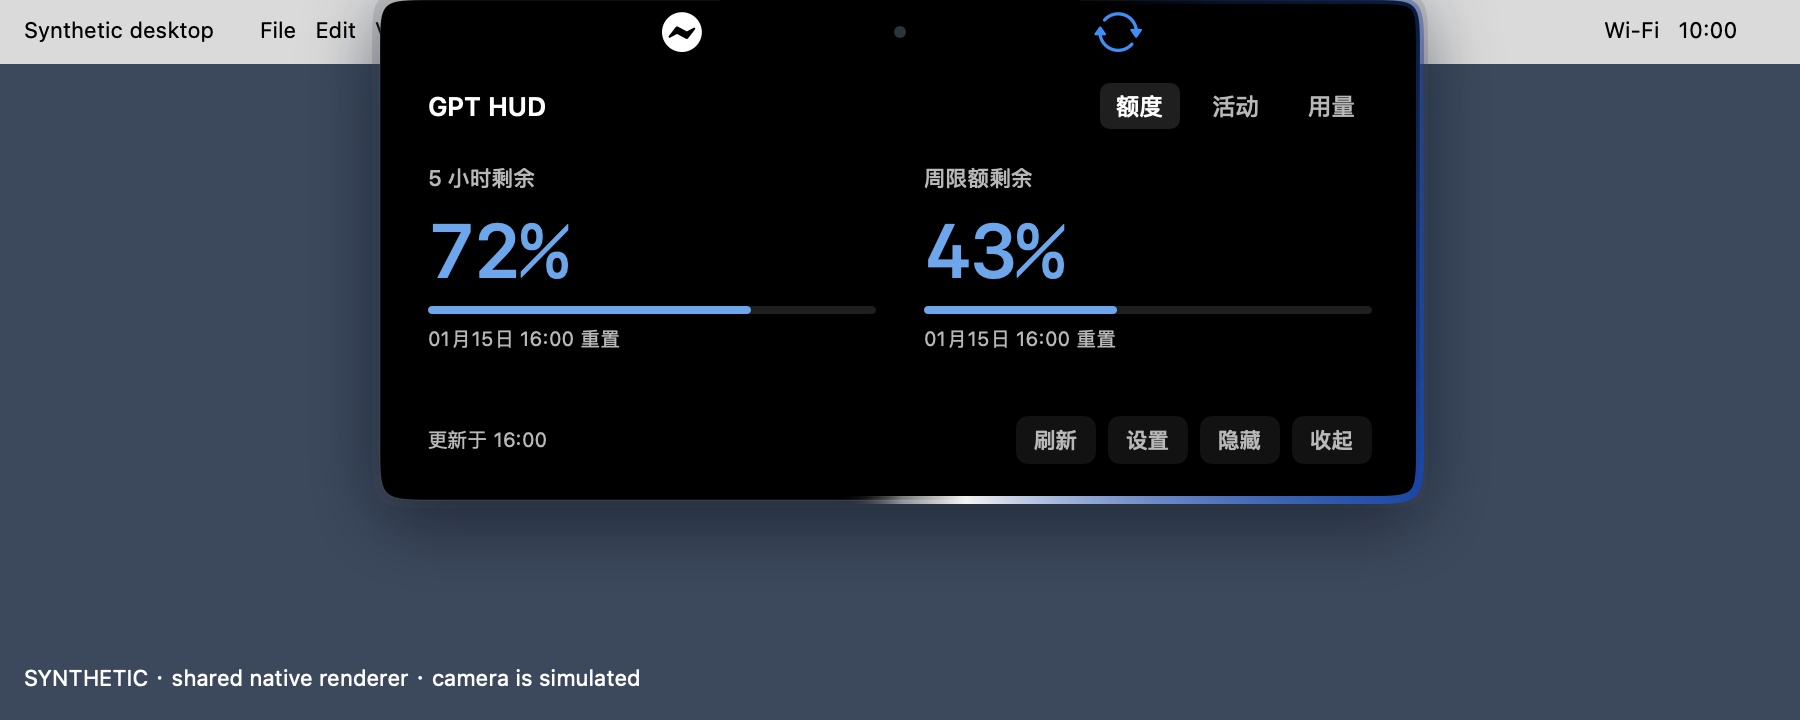
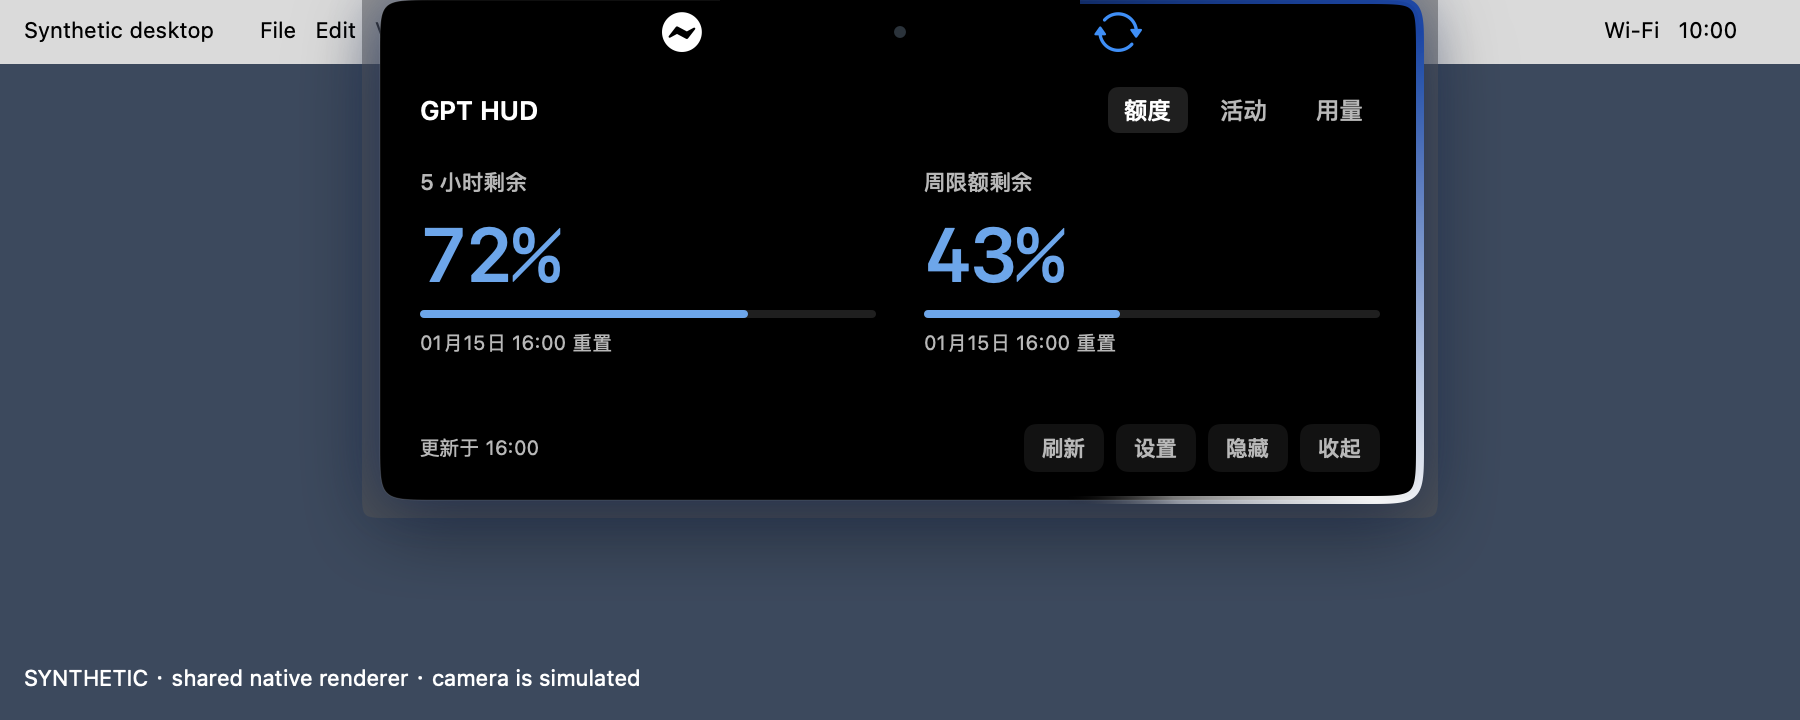
fix(notch): preserve original spacing and effects during panel refinement

diff --git a/Sources/NotchSurfaceShape.swift b/Sources/NotchSurfaceShape.swift
@@ -96,14 +96,12 @@ struct NotchAnimatedSurface: AnimatableModifier {
             .background(
                 ZStack(alignment: .top) {
                     if haloMounted && !reduceTransparency {
-                        NotchMaterialHalo().frame(width: width + 8, height: height + 8)
-                            .clipShape(NotchSurfaceShape(topRadius: geometry.topCornerRadius + 4,
-                                                       bottomRadius: geometry.bottomCornerRadius + 4))
-                            .blur(radius: 6).opacity(haloVisible ? 0.18 : 0)
-                            .offset(y: -4)
+                        NotchMaterialHalo().frame(width: width + 18, height: height + 18)
+                            .clipShape(NotchSurfaceShape()).blur(radius: 8).opacity(haloVisible ? 0.55 : 0)
+                            .offset(y: -9)
                     }
                     shape.fill(Color.black)
-                        .shadow(color: NotchStyle.cobalt.opacity(expanded ? 0.12 : 0.35), radius: 14)
+                        .shadow(color: NotchStyle.cobalt.opacity(0.35), radius: 14)
                         .shadow(color: expanded ? Color.black.opacity(0.5) : .clear, radius: 20, y: 10)
                     shape.stroke(Color.white.opacity(expanded ? 0.12 : 0), lineWidth: 0.5)
                     NotchSweep(path: shape, carrier: layout.windowFrame.size, active: sweepActive)

diff --git a/Sources/NotchDetailPages.swift b/Sources/NotchDetailPages.swift
@@ -15,8 +15,8 @@ struct NotchDetailPages: View {
             }.clipped()
             footer
         }
-        .padding(.horizontal, 24).padding(.bottom, 16)
-        .padding(.top, max(layout.visualBarHeight, layout.physicalTopInset) + 8)
+        .padding(.horizontal, 20).padding(.bottom, 12)
+        .padding(.top, max(layout.visualBarHeight, layout.physicalTopInset) + 10)
         .foregroundColor(.white)
     }
     private var header: some View {

diff --git a/RELEASE_NOTES.md b/RELEASE_NOTES.md
@@ -1,6 +1,6 @@
 # GPT TouchBar HUD v0.1.29
 
-刘海面板采用原生三态展示：静止时在刘海两侧显示应用和任务指示器，悬停时横向展开额度预览，点击后向下展开详情，可切换“额度 / 活动 / 用量”。展开面板收窄至通常 520 × 250 pt，采用四角圆润的轮廓，并减轻外侧光晕；长内容可滚动。新增“刘海始终显示额度”设置，开启后在静止时保留额度预览。界面适配系统减少动态效果、降低透明度和低电量设置，动画期间按实际绘制轮廓处理点击与穿透。独立原生模拟入口与正式界面共用渲染代码，使用演示数据，不启动真实额度请求、Hooks 或自动更新。
+刘海面板采用原生三态展示：静止时在刘海两侧显示应用和任务指示器，悬停时横向展开额度预览，点击后向下展开详情，可切换“额度 / 活动 / 用量”。展开面板收窄至通常 520 × 250 pt，采用四角圆润的轮廓；长内容可滚动。新增“刘海始终显示额度”设置，开启后在静止时保留额度预览。界面适配系统减少动态效果、降低透明度和低电量设置，动画期间按实际绘制轮廓处理点击与穿透。独立原生模拟入口与正式界面共用渲染代码，使用演示数据，不启动真实额度请求、Hooks 或自动更新。
 
 未设置过显示模式时，启动后自动检测可用刘海屏：有刘海且未保存显示状态时直接显示刘海面板，无刘海时桌面浮窗默认隐藏。用户手动选择的显示模式和隐藏状态会继续保留，重启或屏幕变化不会覆盖；重新选择“自动”可恢复自动适配。旧版本已经保存的模式同样保留。
 

diff --git a/Documentation/RELEASE-PREPARATION-0.1.29.md b/Documentation/RELEASE-PREPARATION-0.1.29.md
@@ -4,9 +4,9 @@
 
 ## 本次界面调整
 
-以 32 pt 刘海安全区为例，展开尺寸由 800 × 280 pt 改为 520 × 250 pt，矩形占用面积减少约 42%。顶部由直角改为 26 pt 连续曲线，底部由 14 pt 增至 28 pt；圆角随实际呈现高度形成，快速反向动画也沿用当前轮廓。绘制、裁剪与点击判断共用同一路径，四个透明角均可点击穿透。外侧材质光晕收窄、减轻，并跟随圆角。
+以 32 pt 刘海安全区为例，展开尺寸由 800 × 280 pt 改为 520 × 250 pt，矩形占用面积减少约 42%。顶部由直角改为 26 pt 连续曲线，底部由 14 pt 增至 28 pt；圆角随实际呈现高度形成，快速反向动画也沿用当前轮廓。绘制、裁剪与点击判断共用同一路径，四个透明角均可点击穿透。内容边距、光晕、阴影及顶部屏幕锚点均保留调整前的值，仅修改面板面积与轮廓边角。
 
-正文保留两列额度与三个详情页，调整边距以避开圆角。窄屏额外预留双行页脚高度，长内容可滚动；静止/悬停状态、启动自动识别和用户手动选择的保存规则保持原样。
+正文保留两列额度与三个详情页，内边距保持原值。窄屏额外预留双行页脚高度，长内容可滚动；静止/悬停状态、启动自动识别和用户手动选择的保存规则保持原样。
 
 ![当前原生展开预览](NotchIsland/evidence/refined-synthetic-expanded.png)
 

diff --git a/Documentation/NotchIsland/VALIDATION.md b/Documentation/NotchIsland/VALIDATION.md
@@ -71,7 +71,7 @@ The earlier files in `evidence/` describe the original island implementation run
 
 ## Expanded-panel refinement
 
-The standard expanded shell is reduced from 800 × 280 to 520 × 250 pt at a 32 pt physical inset. Its top corners now round continuously as the actual presentation height grows, and bottom corners increase from 14 to 28 pt. The material halo follows the same curves. Drawing, content clipping and input routing still share one path.
+The standard expanded shell is reduced from 800 × 280 to 520 × 250 pt at a 32 pt physical inset. Its top corners now round continuously as the actual presentation height grows, and bottom corners increase from 14 to 28 pt. Content padding, material halo, shadows and the screen-top anchor retain their pre-polish values. Drawing, content clipping and input routing still share one path.
 
 `bash scripts/test-notch-presentation.sh` passed 359 assertions and 283 presented geometry samples for this refinement, including real click-through at all four expanded corners. The normal Chinese quota screen and all three narrow English long-content pages were visually inspected; the footer controls remain complete and long content scrolls. New previews use the `refined-` filename prefix; earlier images remain historical evidence. This does not establish physical-notch acceptance.
 
